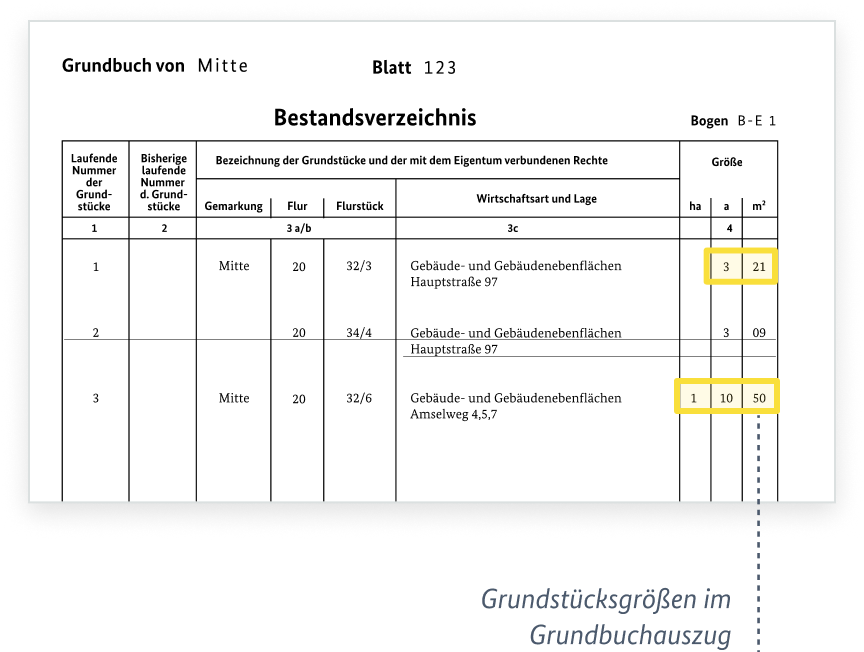
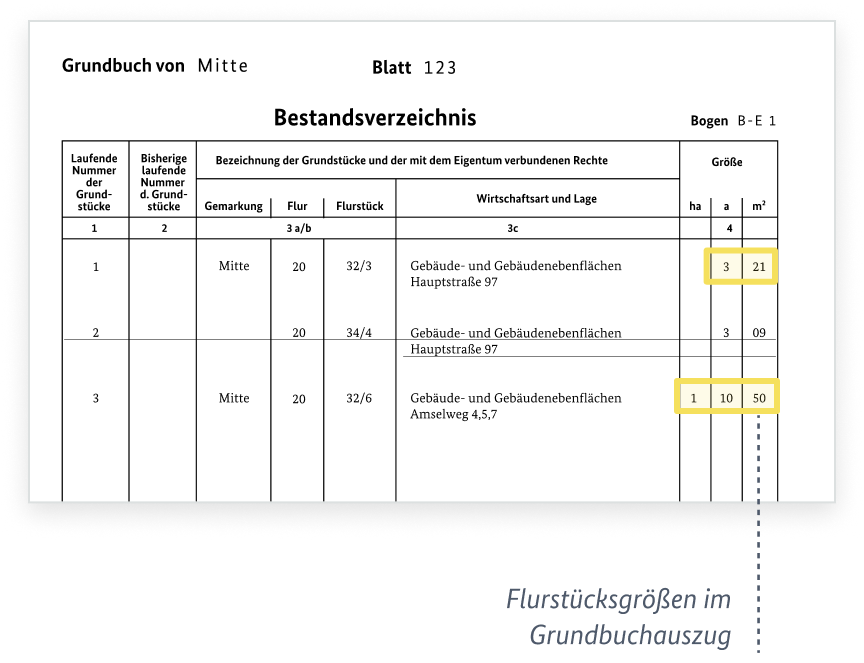
Change wording grundstuecksflaeche > flurstueck

diff --git a/app/components/form/ZusammenfassungAccordion.tsx b/app/components/form/ZusammenfassungAccordion.tsx
@@ -627,7 +627,7 @@ export default function ZusammenfassungAccordion({
             ])}
             {stepItem("grundstueck.anzahl", [
               {
-                label: "Anzahl der Grundstücksflächen",
+                label: "Anzahl der Flurstücke",
                 path: "anzahl",
               },
             ])}
@@ -642,7 +642,7 @@ export default function ZusammenfassungAccordion({
                   return (
                     <EnumerationFields
                       index={index}
-                      label="Angaben zu Grundstücksfläche"
+                      label="Angaben zu Flurstück"
                       icon={<House />}
                       key={flurstueckKey}
                       id={flurstueckKey}
@@ -667,7 +667,7 @@ export default function ZusammenfassungAccordion({
                           path: "flur",
                         },
                         {
-                          label: "Flurstück",
+                          label: "Flurstück Zähler / Nenner",
                           path: "",
                           resolver: resolveFlurstueckFraction,
                         },
@@ -685,7 +685,7 @@ export default function ZusammenfassungAccordion({
                         }.miteigentumAuswahl`,
                         [
                           {
-                            label: "Miteigentumsanteil Grundstücksfläche",
+                            label: "Miteigentumsanteil Flurstücke",
                             path: "hasMiteigentum",
                             resolver: resolveJaNein,
                           },

diff --git a/app/components/form/help/grundstueck/miteigentum/MiteigentumAuswahlHaus.tsx b/app/components/form/help/grundstueck/miteigentum/MiteigentumAuswahlHaus.tsx
@@ -12,7 +12,7 @@ export const MiteigentumAuswahlHausFalseHelp: HelpComponentFunction = () => {
         {
           type: "paragraph",
           value:
-            "Miteigentumsanteile sind im Grundbuchauszug vermerkt. Entweder auf einer separaten Seite oder gebündelt mit den anderen Grundstücksflächen. In der Regel steht bei den Anteilen das Wort “Miteigentum” dabei.",
+            "Miteigentumsanteile sind im Grundbuchauszug vermerkt. Entweder auf einer separaten Seite oder gebündelt mit den anderen Flurstücken. In der Regel steht bei den Anteilen das Wort “Miteigentum” dabei.",
         },
         {
           type: "image",
@@ -32,7 +32,7 @@ export const MiteigentumAuswahlHausTrueHelp: HelpComponentFunction = () => {
         {
           type: "paragraph",
           value:
-            "Miteigentumsanteile sind im Grundbuchauszug vermerkt. Entweder auf einer separaten Seite oder gebündelt mit den anderen Grundstücksflächen. In der Regel steht bei den Anteilen das Wort “Miteigentum” dabei.",
+            "Miteigentumsanteile sind im Grundbuchauszug vermerkt. Entweder auf einer separaten Seite oder gebündelt mit den anderen Flurstücken. In der Regel steht bei den Anteilen das Wort “Miteigentum” dabei.",
         },
         {
           type: "image",

diff --git a/app/components/form/help/grundstueck/miteigentum/MiteigentumAuswahlFlurstueck.tsx b/app/components/form/help/grundstueck/miteigentum/MiteigentumAuswahlFlurstueck.tsx
@@ -12,7 +12,7 @@ export const MiteigentumAuswahlFlurstueckTrueHelp: HelpComponentFunction =
           {
             type: "paragraph",
             value:
-              "Miteigentumsanteile sind im Grundbuchauszug vermerkt. Entweder auf einer separaten Seite oder zusammen mit den anderen Grundstücksflächen auf einer Seite.",
+              "Miteigentumsanteile sind im Grundbuchauszug vermerkt. Entweder auf einer separaten Seite oder gebündelt mit den anderen Flurstücken. In der Regel steht bei den Anteilen das Wort “Miteigentum” dabei.",
           },
           {
             type: "image",
@@ -33,7 +33,7 @@ export const MiteigentumAuswahlFlurstueckFalseHelp: HelpComponentFunction =
           {
             type: "paragraph",
             value:
-              "Miteigentumsanteile sind im Grundbuchauszug vermerkt. Entweder auf einer eigenen Seite oder zusammen mit den anderen Grundstücksflächen. In der Regel steht bei den Anteilen das Wort “Miteigentum” dabei.",
+              "Miteigentumsanteile sind im Grundbuchauszug vermerkt. Entweder auf einer separaten Seite oder gebündelt mit den anderen Flurstücken. In der Regel steht bei den Anteilen das Wort “Miteigentum” dabei.",
           },
           {
             type: "image",

diff --git a/app/components/steps/grundstueck/GrundstueckAnzahl.tsx b/app/components/steps/grundstueck/GrundstueckAnzahl.tsx
@@ -29,12 +29,12 @@ const GrundstueckAnzahl: StepComponentFunction = ({
   const anzahlProps = {
     anzahl: allData?.grundstueck?.anzahl?.anzahl,
     maxAnzahl: GRUNDSTUECK_ANZAHL_MAX,
-    itemLabelTemplate: "Grundstücksfläche [ID]",
+    itemLabelTemplate: "Flurstück [ID]",
     itemEditPathTemplate: "/formular/grundstueck/flurstueck/[ID]/angaben",
-    increaseButtonLabel: "Grundstücksfläche hinzufügen",
+    increaseButtonLabel: "Flurstück hinzufügen",
     attributes: [
       {
-        label: "Flurstück",
+        label: "Flurstück Zähler / Nenner",
         values: allData.grundstueck?.flurstueck?.map((flurstueck) =>
           [
             flurstueck?.flur?.flurstueckZaehler,

diff --git a/app/components/steps/grundstueck/bodenrichtwert/NWHelp.tsx b/app/components/steps/grundstueck/bodenrichtwert/NWHelp.tsx
@@ -18,7 +18,7 @@ export const NWHelp = () => {
         imageAltText="Bildbeispiel von Schritt 2 des Datenstammblatts Nordrhein-Westfalen"
         number="2"
         heading="Bodenrichtwert ablesen"
-        text="Gehen Sie in die Tabelle des Datenstammblatts. Dort können Sie den Bodenrichtwert in Euro pro Quadratmeter je Grundstücksfläche ablesen."
+        text="Gehen Sie in die Tabelle des Datenstammblatts. Dort können Sie den Bodenrichtwert in Euro pro Quadratmeter je Flurstück ablesen."
         className="mb-16"
       />
     </>

diff --git a/app/components/form/help/grundstueck/FlurstueckMiteigentum.tsx b/app/components/form/help/grundstueck/FlurstueckMiteigentum.tsx
@@ -10,7 +10,7 @@ const FlurstueckMiteigentumHelp: HelpComponentFunction = () => {
         {
           type: "paragraph",
           value:
-            "Miteigentumsanteile sind im Grundbuchauszug vermerkt. Entweder auf einer separaten Seite oder zusammen mit den anderen Grundstücksflächen auf einer Seite.",
+            "Miteigentumsanteile sind im Grundbuchauszug vermerkt. Entweder auf einer separaten Seite oder zusammen mit den anderen Flurstücken auf einer Seite.",
         },
         {
           type: "image",

diff --git a/app/components/form/help/grundstueck/GrundstueckAnzahl.tsx b/app/components/form/help/grundstueck/GrundstueckAnzahl.tsx
@@ -11,7 +11,7 @@ const GrundstueckAnzahlHelp: HelpComponentFunction = () => {
           type: "image",
           source: grundbuchImg,
           altText:
-            "Bildbeispiel eines Grundbuchauszug in dem Grundstücksflächen hervorgehoben sind",
+            "Bildbeispiel eines Grundbuchauszug in dem Flurstücke hervorgehoben sind",
         },
       ]}
     />

diff --git a/app/routes/kitchensink/index.tsx b/app/routes/kitchensink/index.tsx
@@ -59,7 +59,7 @@ export default function KitchenSinkIndex() {
 
       <div className="bg-blue-200 py-24">
         <SectionLabel background="white" icon={<House />}>
-          Grundstücksfläche 1 (SectionLabel)
+          Furstück 1 (SectionLabel)
         </SectionLabel>
       </div>
 
